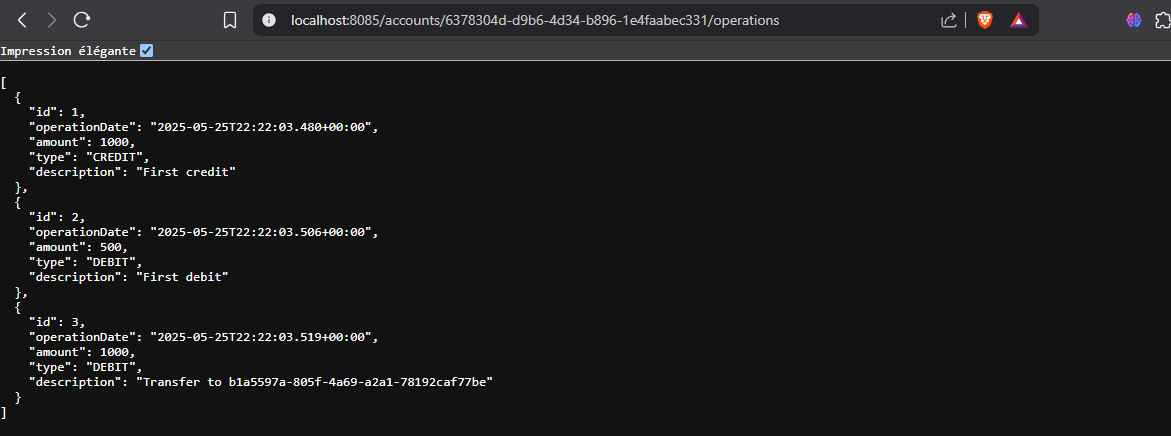
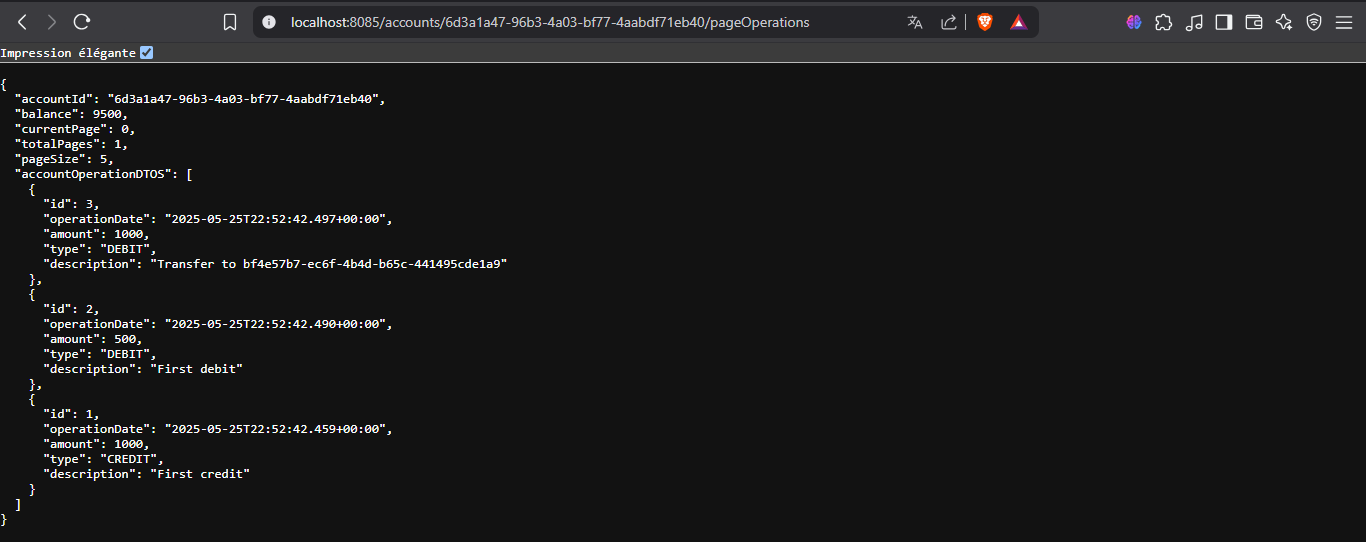
account history DTO,service et controller endpoint

diff --git a/src/main/java/ma/enset/bdcc/azmi/backend/services/BankAccountServiceImpl.java b/src/main/java/ma/enset/bdcc/azmi/backend/services/BankAccountServiceImpl.java
@@ -8,6 +8,8 @@ import ma.enset.bdcc.azmi.backend.repositories.AccountOperationRepository;
 import ma.enset.bdcc.azmi.backend.repositories.BankAccountRepository;
 import ma.enset.bdcc.azmi.backend.repositories.CustumerRepository;
 import ma.enset.bdcc.azmi.backend.enums.OperationType;
+import org.springframework.data.domain.Page;
+import org.springframework.data.domain.PageRequest;
 import org.springframework.stereotype.Service;
 import org.springframework.transaction.annotation.Transactional;
 
@@ -167,4 +169,23 @@ public class BankAccountServiceImpl implements BankAccountService {
             .map(op -> dtoMapper.fromAccountOperation(op))
             .collect(Collectors.toList());
     }
+
+    @Override
+    public AccountHistoryDTO getAccountHistory(String accountId, int page, int size) {
+        BankAccount bankAccount=bankAccountRepository.findById(accountId)
+                .orElseThrow(() -> new RuntimeException("bank account not found"));
+        ;
+        Page<AccountOperation> accountOperations = accountOperationRepository.findByBankAccountIdOrderByOperationDateDesc(accountId, PageRequest.of(page, size));
+        AccountHistoryDTO accountHistoryDTO=new AccountHistoryDTO();
+        List<AccountOperationDTO> accountOperationDTOS = accountOperations.getContent().stream().map(op -> dtoMapper.fromAccountOperation(op)).collect(Collectors.toList());
+        accountHistoryDTO.setAccountOperationDTOS(accountOperationDTOS);
+        accountHistoryDTO.setAccountId(bankAccount.getId());
+        accountHistoryDTO.setBalance(bankAccount.getBalance());
+        accountHistoryDTO.setCurrentPage(page);
+        accountHistoryDTO.setPageSize(size);
+        accountHistoryDTO.setTotalPages(accountOperations.getTotalPages());
+        return accountHistoryDTO;
+    }
+
+
 }

diff --git a/src/main/java/ma/enset/bdcc/azmi/backend/web/BankAccountRestController.java b/src/main/java/ma/enset/bdcc/azmi/backend/web/BankAccountRestController.java
@@ -45,31 +45,12 @@ public class BankAccountRestController {
          return bankAccountService.accountHistory(accountId);
      }
 
-    // @GetMapping("/{accountId}/pageOperations")
-    // public AccountHistoryDTO getAccountHistory(
-    //         @PathVariable String accountId,
-    //         @RequestParam(name = "page", defaultValue = "0") int page,
-    //         @RequestParam(name = "size", defaultValue = "5") int size) {
-    //     return bankAccountService.getAccountHistory(accountId, page, size);
-    // }
+    @GetMapping("/{accountId}/pageOperations")
+    public AccountHistoryDTO getAccountHistory(
+            @PathVariable String accountId,
+            @RequestParam(name = "page", defaultValue = "0") int page,
+            @RequestParam(name = "size", defaultValue = "5") int size) {
+        return bankAccountService.getAccountHistory(accountId, page, size);
+    }
 
-    // @PostMapping("/debit")
-    // public DebitDTO debit(@RequestBody DebitDTO debitDTO) {
-    //     this.bankAccountService.debit(debitDTO.getAccountId(), debitDTO.getAmount(), debitDTO.getDescription());
-    //     return debitDTO;
-    // }
-
-    // @PostMapping("/credit")
-    // public CreditDTO credit(@RequestBody CreditDTO creditDTO) {
-    //     this.bankAccountService.credit(creditDTO.getAccountId(), creditDTO.getAmount(), creditDTO.getDescription());
-    //     return creditDTO;
-    // }
-
-    // @PostMapping("/transfer")
-    // public void transfer(@RequestBody TransferRequestDTO transferRequestDTO) {
-    //     this.bankAccountService.transfer(
-    //             transferRequestDTO.getAccountSource(),
-    //             transferRequestDTO.getAccountDestination(),
-    //             transferRequestDTO.getAmount());
-    // }
 }

diff --git a/src/main/java/ma/enset/bdcc/azmi/backend/dtos/AccountHistoryDTO.java b/src/main/java/ma/enset/bdcc/azmi/backend/dtos/AccountHistoryDTO.java
@@ -1,0 +1,15 @@
+package ma.enset.bdcc.azmi.backend.dtos;
+
+import lombok.Data;
+
+import java.util.List;
+
+@Data
+public class AccountHistoryDTO {
+    private String accountId;
+    private double balance;
+    private int currentPage;
+    private int totalPages;
+    private int pageSize;
+    private List<AccountOperationDTO> accountOperationDTOS;
+}

diff --git a/src/main/java/ma/enset/bdcc/azmi/backend/repositories/AccountOperationRepository.java b/src/main/java/ma/enset/bdcc/azmi/backend/repositories/AccountOperationRepository.java
@@ -11,5 +11,7 @@ import java.util.List;
 @Repository
 public interface AccountOperationRepository extends JpaRepository<AccountOperation, Long> {
     List<AccountOperation> findByBankAccountId(String accountId);
+    Page<AccountOperation> findByBankAccountIdOrderByOperationDateDesc(String accountId, Pageable pageable);
+
 
 }

diff --git a/src/main/java/ma/enset/bdcc/azmi/backend/services/BankAccountService.java b/src/main/java/ma/enset/bdcc/azmi/backend/services/BankAccountService.java
@@ -19,4 +19,5 @@ public interface BankAccountService {
     void transfer(String accountIdSource, String accountIdDestination, double amount);
 
     List<AccountOperationDTO> accountHistory(String accountId);
+    AccountHistoryDTO getAccountHistory(String accountId, int page, int size);
 }

diff --git a/README.md b/README.md
@@ -58,6 +58,8 @@ This project is a **Spring Boot** backend for a digital banking application. It 
 ### Testing the "/accounts" Endpoint
 ![alt text](./screens/accounts_endpoint.png)
 
+### Account operations test
+![alt text](./screens/account_operations.png)
+
 ### Account history test
 ![alt text](./screens/account_history.png)
-
